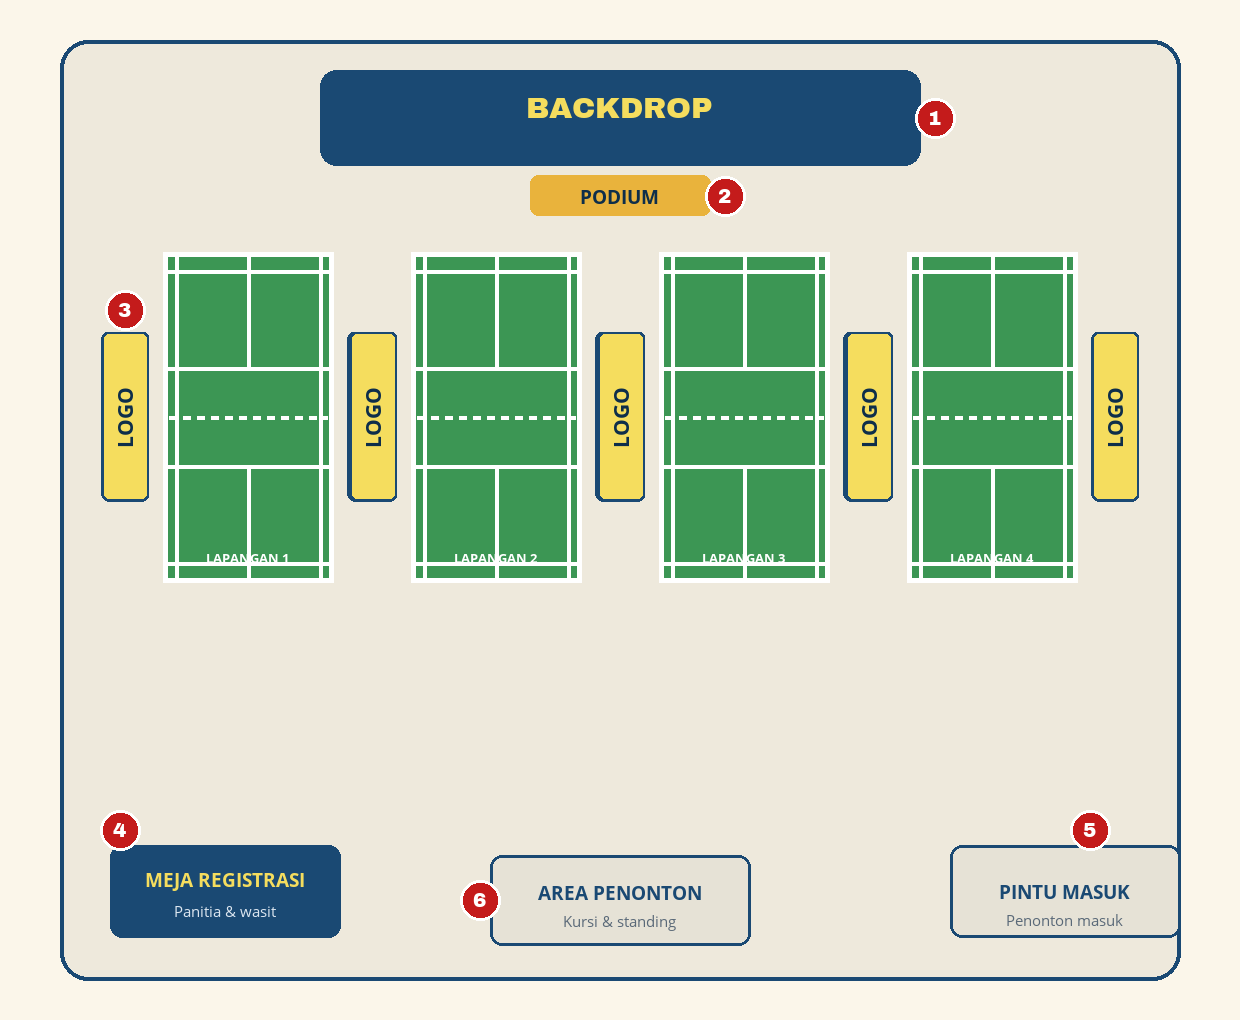
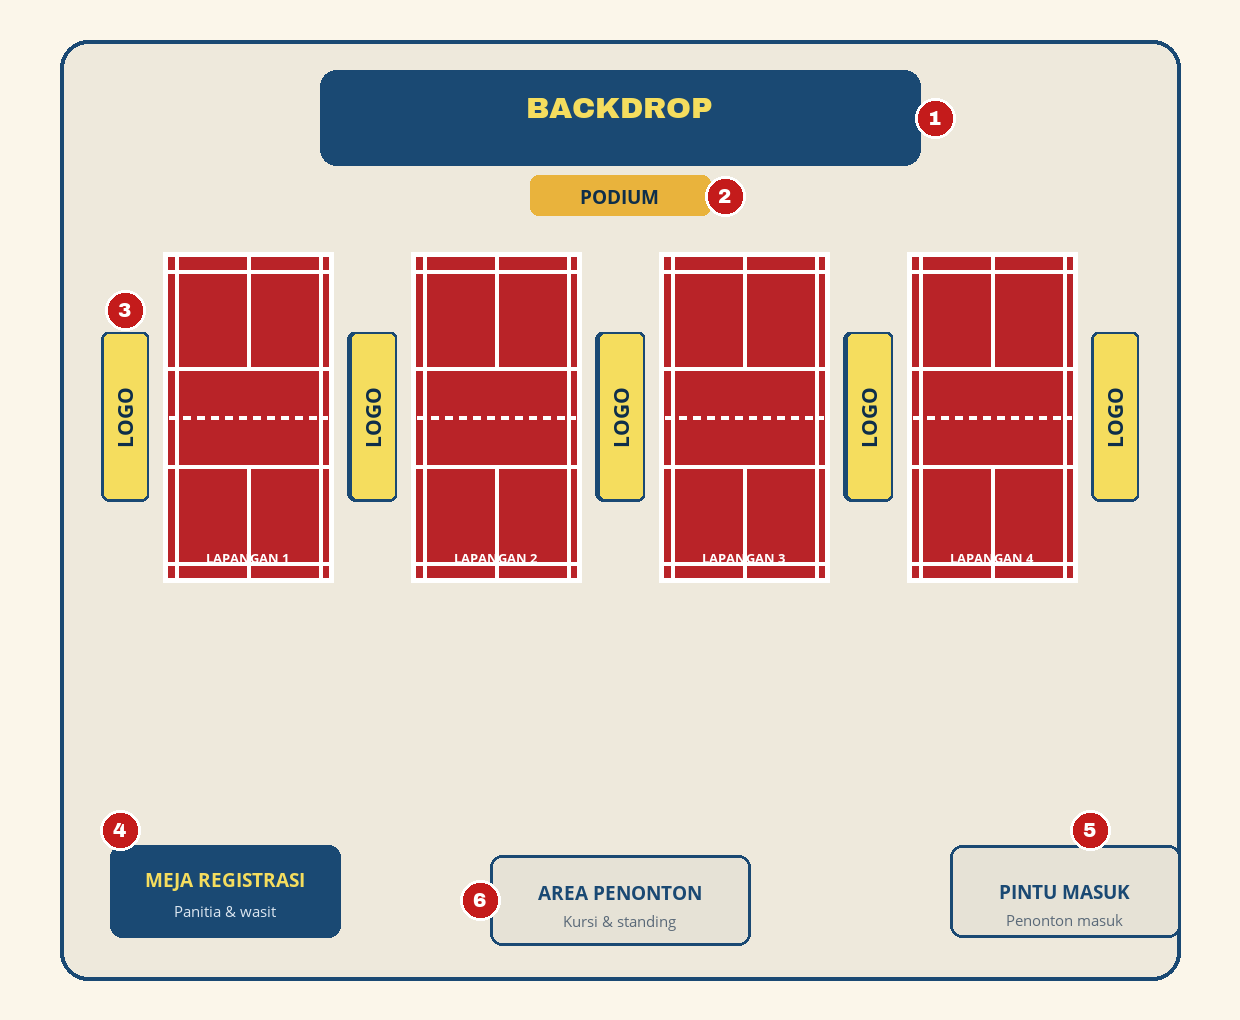
Denah: lapangan merah; ejaan venue (red carped)

diff --git a/pedoman.html b/pedoman.html
@@ -72,7 +72,7 @@ body{font-family:'Body';-webkit-print-color-adjust:exact;print-color-adjust:exac
     <div class="sec">
       <h2><span class="no">A</span>KETENTUAN UMUM</h2>
       <ol>
-        <li>Pertandingan akan dilaksanakan pada tanggal <b>5 dan 6 Desember 2026</b> di <b>Powr Hall (Red Carpet)</b>, Yogyakarta. Hari pertama dimulai pukul 07.00 WIB dan hari kedua pukul 08.00 WIB.</li>
+        <li>Pertandingan akan dilaksanakan pada tanggal <b>5 dan 6 Desember 2026</b> di <b>Powr Hall (red carped)</b>, Yogyakarta. Hari pertama dimulai pukul 07.00 WIB dan hari kedua pukul 08.00 WIB.</li>
         <li>Pendaftaran dibuka dari tanggal <b>18 hingga 20 November 2026</b>. Apabila sebelum tanggal 20 November kuota sudah terpenuhi, maka pendaftaran secara otomatis ditutup.</li>
         <li>Peserta yang dapat mengikuti turnamen adalah penerima beasiswa LPDP UGM yang berstatus <b>awardee aktif</b> dan <b>alumni LPDP UGM</b>. Pendaftar awardee aktif wajib melampirkan screenshot halaman Profil pada portal e-Beasiswa LPDP yang menunjukkan status <b>&ldquo;Sedang Studi (Dalam Pembiayaan)&rdquo;</b>, serta menuliskan angkatan PK. Pendaftar alumni wajib menuliskan angkatan PK.</li>
         <li>Pendaftaran bersifat <b>perseorangan (bukan tim)</b> dengan biaya registrasi sebesar <b>Rp45.000,-</b> per orang untuk awardee aktif dan <b>Rp65.000,-</b> per orang untuk alumni. Biaya pendaftaran sudah termasuk shuttlecock, konsumsi selama pertandingan, dan e-sertifikat peserta.</li>

diff --git a/index.html b/index.html
@@ -4,7 +4,7 @@
 <meta charset="utf-8">
 <meta name="viewport" content="width=device-width, initial-scale=1">
 <title>SM CUP 2026 — Sinergi Maju Cup | Kelurahan LPDP UGM</title>
-<meta name="description" content="Pendaftaran SM CUP 2026 (Sinergi Maju Cup) — turnamen badminton Kelurahan LPDP UGM. 5–6 Desember 2026, Powr Hall (Red Carpet), Yogyakarta.">
+<meta name="description" content="Pendaftaran SM CUP 2026 (Sinergi Maju Cup) — turnamen badminton Kelurahan LPDP UGM. 5–6 Desember 2026, Powr Hall (red carped), Yogyakarta.">
 <link rel="stylesheet" href="style.css">
 </head>
 <body>
@@ -175,12 +175,12 @@
         <div class="tl-dot tl-dot-d"></div>
         <div class="tl-dt">5–6</div>
         <div class="tl-nm">DES 2026</div>
-        <div class="tl-sub">Hari pertandingan di Powr Hall (Red Carpet), Yogyakarta.</div>
+        <div class="tl-sub">Hari pertandingan di Powr Hall (red carped), Yogyakarta.</div>
       </div>
     </div>
     <div class="venue">
       <div class="venue-t">Venue</div>
-      <div class="venue-n">Powr Hall (Red Carpet), Yogyakarta</div>
+      <div class="venue-n">Powr Hall (red carped), Yogyakarta</div>
       <div class="venue-s">4 lapangan · Hari pertama pukul 07.00 WIB · Hari kedua pukul 08.00 WIB</div>
       <img class="venue-img" src="assets/lapangan.png" alt="Denah lapangan">
       <div class="venue-cap">Denah venue: backdrop &amp; podium di ujung belakang, banner sponsor di sisi tiap lapangan.</div>
